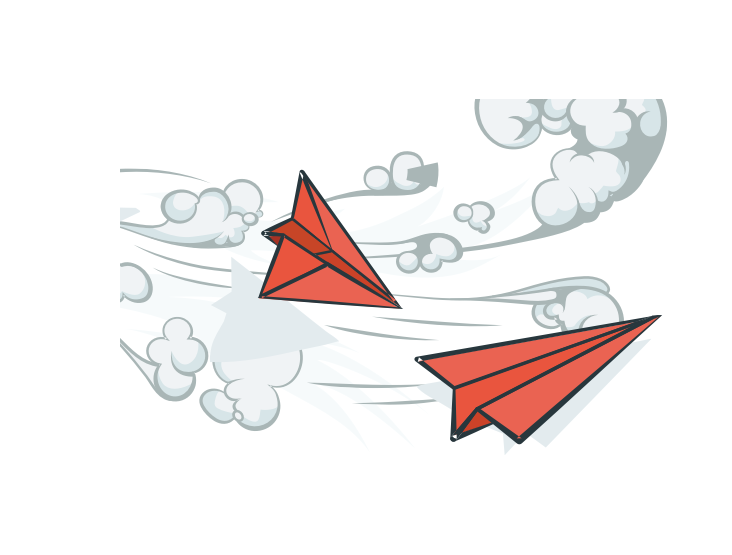
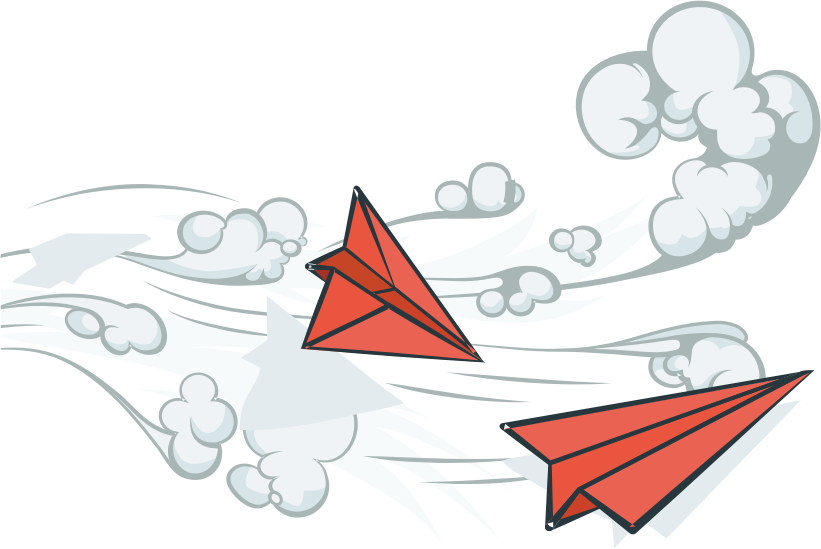
Fixed?

Changed region(s): [[0.0, 0.0, 1.0, 0.9909], [0.6311, 0.1858, 0.6612, 0.2477]]

diff --git a/resources/views/landing/colombia.blade.php b/resources/views/landing/colombia.blade.php
@@ -258,41 +258,41 @@
         </div>
         <div class="map-image">
             <div class="container-fluid h-100">
-                <div class="row h-100 justify-content-center align-items-center ">
+                <div class="row h-100 justify-content-center align-items-center">
                     <div class="col-lg-12 col-md-12 ">
                         <ul class="timeline" id="timeline">
-                            <li class="li complete full ">
-                                <div id="statuc" class="status ">
-                                    <h1 class="">Ciudad</h1>
+                            <li class="li complete full">
+                                <div id="statuc" class="status">
+                                    <h1>Ciudad</h1>
                                 </div>
                                 <div class="info">
-                                    <p id="statud" class="">Bogotá</p>
+                                    <p id="statud">Bogotá</p>
                                 </div>
                             </li>
                             <li class="li complete ">
-                                <div id="statuf" class="status  ">
-                                    <h1 id="statug" class="">Lugar</h1>
+                                <div id="statuf" class="status">
+                                    <h1 id="statug">Lugar</h1>
                                 </div>
                                 <div class="info ">
-                                    <p id="statuh" class="site  ">Parque el virrey<br> Cra 15 #86a-50</p>
+                                    <p id="statuh" class="site">Parque el virrey<br> Cra 15 #86a-50</p>
                                 </div>
                             </li>
-                            <li class="li complete full ">
-                                <div id="statu1" class="status ">
+                            <li class="li complete full">
+                                <div id="statu1" class="status">
                                     <h1 id="statu2">Fecha</h1>
                                 </div>
                                 <div class="info">
                                     <p id="statu3">10/02/2020</p>
                                 </div>
                             </li>
-                            <li class="li complete full ">
-                                <div id="statu4" class="status  status-last">
-                                    <h1 id="final1" class="">Kilometros</h1>
+                            <li class="li complete full">
+                                <div id="statu4" class="status status-last">
+                                    <h1 id="final1">Kilometros</h1>
                                 </div>
                                 <div class="info space">
-                                    <p id="final2" class="d-inline px-3 ">10k</p>
-                                    <p id="final3" class="d-inline px-3 ">21k</p>
-                                    <p id="final4" class="d-inline px-3 ">42k</p>
+                                    <p id="final2" class="d-inline px-3">10k</p>
+                                    <p id="final3" class="d-inline px-3">21k</p>
+                                    <p id="final4" class="d-inline px-3">42k</p>
                                 </div>
                             </li>
                         </ul>
@@ -317,7 +317,7 @@
                                     <label class="float-label" for="inputNames">NOMBRES</label>
                                     <input type="text" ng-model="names" required class="form-control" name="inputNames"
                                         id="inputNames" aria-describedby="namesHelp" placeholder="escriba sus nombres">
-                                    <div ng-show="namesErr" class="">
+                                    <div ng-show="namesErr">
                                         <small id="namesHelp" class="form-text">Falta registrar los nombres
                                             *</small>
                                     </div>
@@ -327,7 +327,7 @@
                                     <input type="text" required ng-model="lastnames" class="form-control"
                                         name="inputLastnames" id="inputLastnames" aria-describedby="lastnamesHelp"
                                         placeholder="escriba sus apellidos">
-                                    <div ng-show="lastErr" class="">
+                                    <div ng-show="lastErr">
                                         <small id="lastnamesHelp" class="form-text">Falta registrar los
                                             apellidos
                                             *</small>
@@ -339,7 +339,7 @@
                                     <label class="float-label" for="inputEmail">EMAIL</label>
                                     <input type="email" required ng-model="email" class="form-control" name="inputEmail"
                                         id="inputEmail" aria-describedby="emailHelp" placeholder="escriba su email">
-                                    <div ng-if="emailErr" class="">
+                                    <div ng-if="emailErr">
                                         <small id="emailHelp" class="form-text">Falta registrar el email
                                             *</small>
                                     </div>
@@ -364,7 +364,7 @@
                                     <label class="float-label" for="inputAge">FECHA DE NACIMIENTO</label>
                                     <input type="text" required name="inputAge" ng-model="age" class="form-control"
                                         id="inputAge" placeholder="AAAA/MM/DD">
-                                    <div ng-if="ageErr" class="">
+                                    <div ng-if="ageErr">
                                         <small id="emailHelp" class="form-text">Falta registrar la edad
                                             *</small>
                                     </div>
@@ -572,8 +572,8 @@
     <script src="{{ asset('vendor/bootstrap/js/bootstrap.bundle.min.js') }}"></script>
 
     <script src="<?= asset('angular.min.js') ?>"></script>
-    <script src="<?= asset('app.js') ?>"></script>
     <script src="<?= asset('angular-route.min.js') ?>"></script>
+    <script src="<?= asset('app.js') ?>"></script>
 
     <script>
         var scroll = new SmoothScroll('a[href*="#"]');
